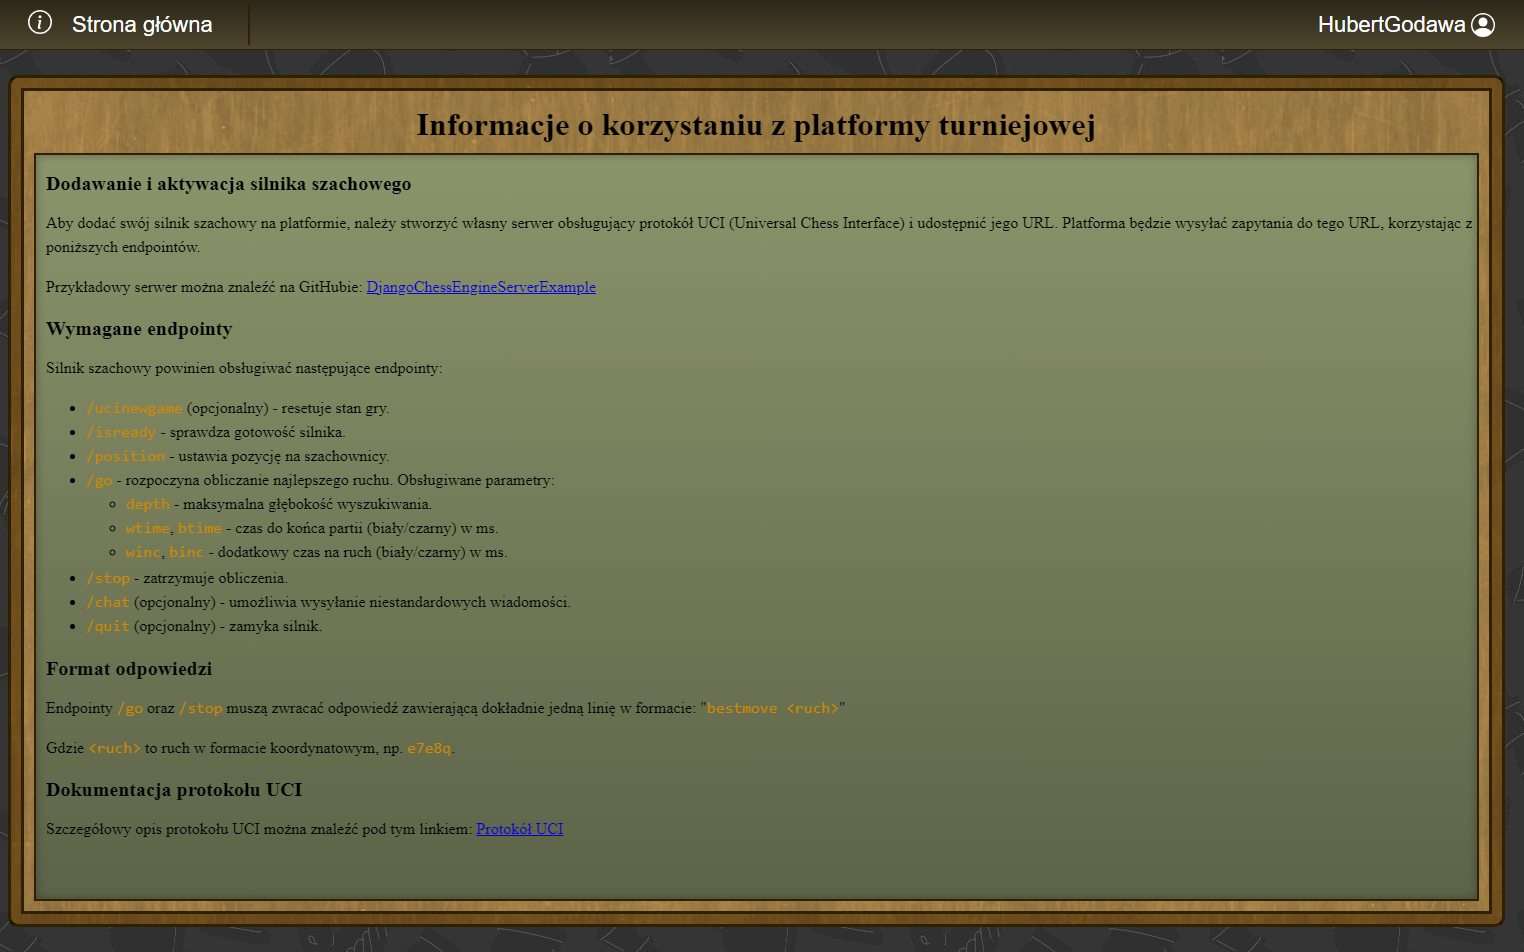
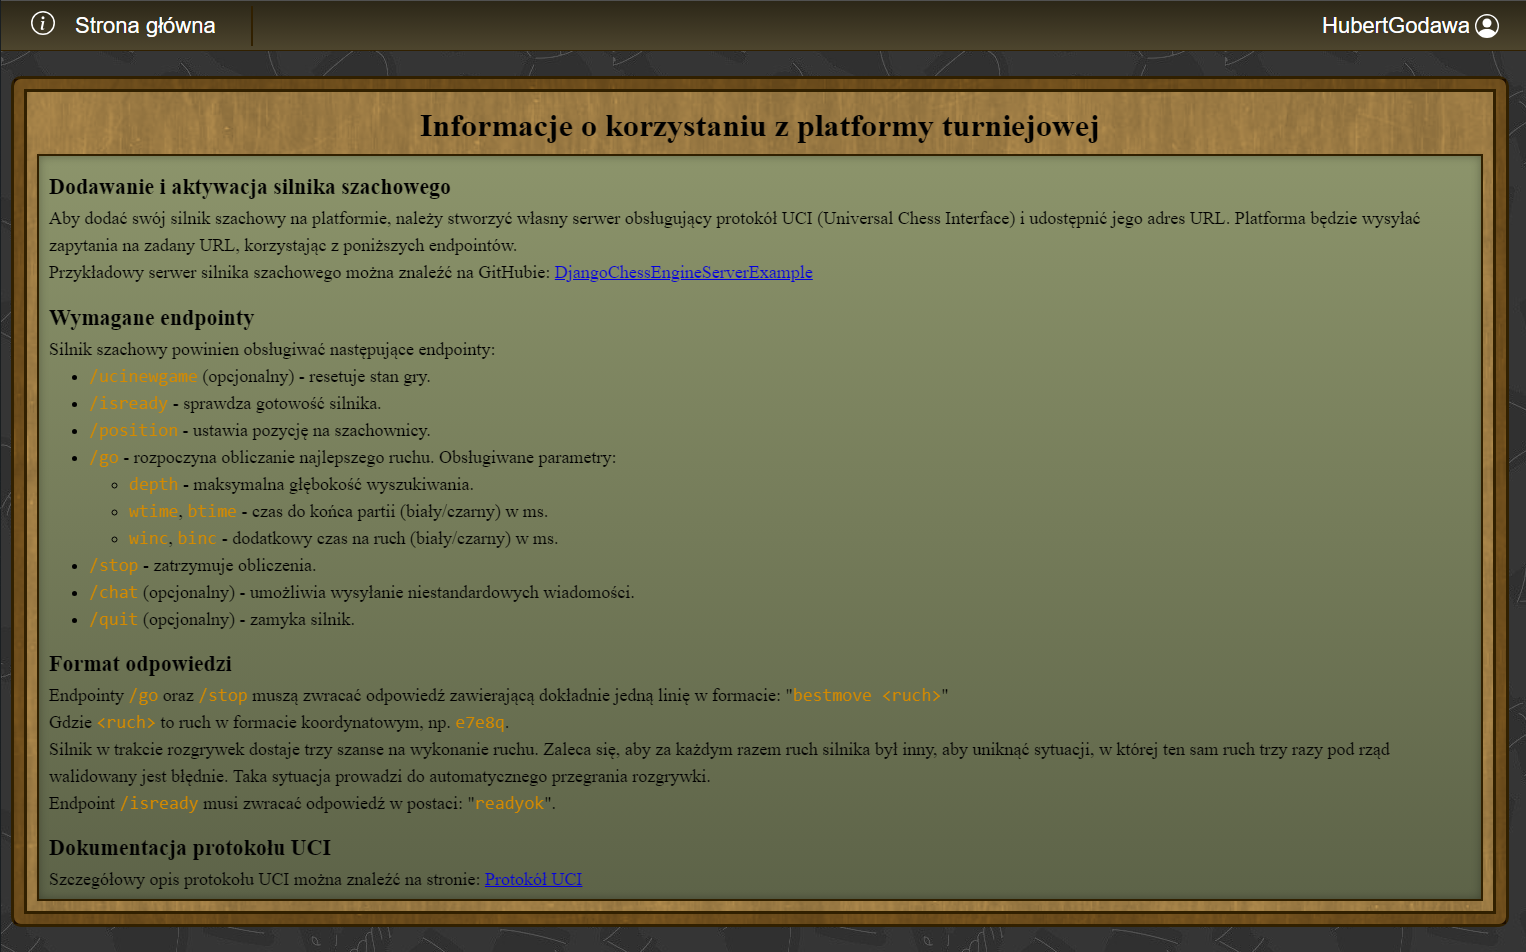
Fixed minor issues with JWT token authentication, updated INFO page with small (mostly grammar :P) changes

diff --git a/frontend/src/app/pages/about/about.component.html b/frontend/src/app/pages/about/about.component.html
@@ -8,11 +8,11 @@
                 <h2>Dodawanie i aktywacja silnika szachowego</h2>
                 <p>
                 Aby dodać swój silnik szachowy na platformie, należy stworzyć własny serwer
-                obsługujący protokół UCI (Universal Chess Interface) i udostępnić jego URL. 
-                Platforma będzie wysyłać zapytania do tego URL, korzystając z poniższych endpointów.
+                obsługujący protokół UCI (Universal Chess Interface) i udostępnić jego adres URL. 
+                Platforma będzie wysyłać zapytania na zadany URL, korzystając z poniższych endpointów.
                 </p>
                 <p>
-                Przykładowy serwer można znaleźć na GitHubie:
+                Przykładowy serwer silnika szachowego można znaleźć na GitHubie:
                 <a href="https://github.com/F8Code/DjangoChessEngineServerExample" target="_blank">
                     DjangoChessEngineServerExample
                 </a>
@@ -48,12 +48,18 @@
                 <p>
                 Gdzie <code>&lt;ruch&gt;</code> to ruch w formacie koordynatowym, np. <code>e7e8q</code>.
                 </p>
+                <p>
+                Silnik w trakcie rozgrywek dostaje trzy szanse na wykonanie ruchu. Zaleca się, aby za każdym razem ruch silnika był inny, aby uniknąć sytuacji, w której ten sam ruch trzy razy pod rząd walidowany jest błędnie. Taka sytuacja prowadzi do automatycznego przegrania rozgrywki.
+                </p>
+                <p>
+                Endpoint <code>/isready</code> musi zwracać odpowiedź w postaci: "<code>readyok</code>".
+                </p>
             </section>
             
             <section class="info-section">
                 <h2>Dokumentacja protokołu UCI</h2>
                 <p>
-                Szczegółowy opis protokołu UCI można znaleźć pod tym linkiem:
+                Szczegółowy opis protokołu UCI można znaleźć na stronie:
                 <a href="https://gist.github.com/DOBRO/2592c6dad754ba67e6dcaec8c90165bf" target="_blank">
                     Protokół UCI
                 </a>

diff --git a/frontend/src/app/interceptors/jwt.service.ts b/frontend/src/app/interceptors/jwt.service.ts
@@ -4,32 +4,47 @@ import { Observable, throwError } from 'rxjs';
 import { AuthService } from '../services/auth/auth.service';
 import { catchError, switchMap } from 'rxjs/operators';
 
-
 @Injectable()
 export class JwtService implements HttpInterceptor {
   constructor(private authService: AuthService) {}
 
   intercept(req: HttpRequest<any>, next: HttpHandler): Observable<HttpEvent<any>> {
     const token = this.authService.getToken();
-  
+
+    let modifiedReq = req;
     if (token) {
-      req = req.clone({
+      modifiedReq = req.clone({
         setHeaders: {
           Authorization: `Bearer ${token}`
         }
       });
     }
-  
-    return next.handle(req).pipe(
+
+    return next.handle(modifiedReq).pipe(
       catchError(error => {
-        this.authService.refreshToken();
-        const newToken = this.authService.getRefreshToken();
-          req = req.clone({
-            setHeaders: {
-              Authorization: `Bearer ${newToken}`
-            }
-          });
-          return next.handle(req);
+        if (error.status === 401) {
+          // Odśwież token
+          return this.authService.refreshToken().pipe(
+            switchMap((response: any) => {
+              const newToken = response.access;
+              this.authService.saveToken(newToken);
+
+              const newReq = req.clone({
+                setHeaders: {
+                  Authorization: `Bearer ${newToken}`
+                }
+              });
+
+              return next.handle(newReq);
+            }),
+            catchError(refreshError => {
+              this.authService.logout();
+              return throwError(refreshError);
+            })
+          );
+        }
+
+        return throwError(error);
       })
     );
   }

diff --git a/frontend/src/app/services/auth/auth.service.ts b/frontend/src/app/services/auth/auth.service.ts
@@ -1,7 +1,7 @@
 import { Injectable } from '@angular/core';
 import { HttpClient } from '@angular/common/http';
-import { BehaviorSubject, Observable } from 'rxjs';
-import { tap } from 'rxjs/operators';
+import { BehaviorSubject, Observable, throwError } from 'rxjs';
+import { catchError, tap } from 'rxjs/operators';
 
 @Injectable({
   providedIn: 'root'
@@ -44,6 +44,11 @@ export class AuthService {
       tap((response: any) => {
         this.saveToken(response.access);
         this.saveRefreshToken(response.refresh);
+      }),
+      catchError(error => {
+        console.error('Refresh token failed', error);
+        this.logout();
+        return throwError(error);
       })
     );
   }  

diff --git a/frontend/src/app/pages/about/about.component.css b/frontend/src/app/pages/about/about.component.css
@@ -80,14 +80,15 @@
   }
 
   .info-section h2 {
-    font-size: 20px;
-    margin-bottom: 10px;
+    font-size: 22px;
+    margin-bottom: 5px;
   }
 
   .info-section p, .info-section ul, .info-section pre {
-    font-size: 16px;
+    font-size: 18px;
     line-height: 1.5;
-    margin-bottom: 2px;
+    margin-bottom: 0px;
+    margin-top: 0px;
   }
 
   .info-section code {
